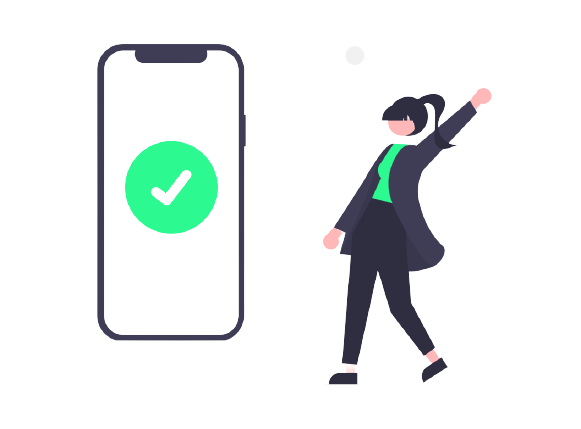
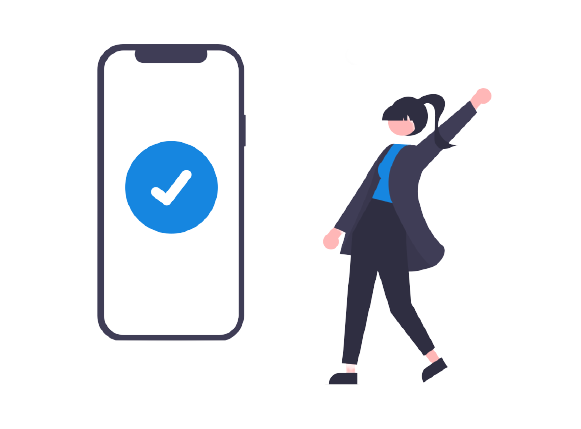
Creating and adding content to the Registration page

Changed region(s): [[0.2169, 0.303, 0.4028, 0.5455], [0.6196, 0.3333, 0.7126, 0.4848]]

diff --git a/lib/register/register_page.dart b/lib/register/register_page.dart
@@ -10,9 +10,155 @@ class RegisterPage extends StatefulWidget {
 class _RegisterPageState extends State<RegisterPage> {
   @override
   Widget build(BuildContext context) {
-    return Container(
-      child: Container(
-        color: Colors.purple,
+    return Scaffold(
+      resizeToAvoidBottomInset: false,
+      backgroundColor: Color(0xfff7f6fb),
+      body: SafeArea(
+        child: Padding(
+          padding: EdgeInsets.symmetric(vertical: 24, horizontal: 30),
+          child: Column(
+            children: [
+              GestureDetector(
+                child: Align(
+                  alignment: Alignment.topLeft,
+                  child: Icon(
+                    Icons.arrow_back,
+                    color: Colors.black54,
+                    size: 32,
+                  ),
+                ),
+                onTap: () {
+                  Navigator.pop(context);
+                },
+              ),
+              SizedBox(
+                height: 80,
+              ),
+              Container(
+                width: 200,
+                height: 200,
+                decoration: BoxDecoration(
+                  // color: Color(0xFF1686E0),
+                  color: Colors.blue.shade50,
+                  shape: BoxShape.circle,
+                ),
+                child: Image.asset(
+                  "assets/images/mobile_register.png",
+                  // height: 450,
+                ),
+              ),
+              SizedBox(
+                height: 30,
+              ),
+              Text(
+                "Registration",
+                style: TextStyle(
+                  fontSize: 22,
+                  fontWeight: FontWeight.bold,
+                ),
+              ),
+              SizedBox(
+                height: 10,
+              ),
+              Text(
+                "Add your phone number. We'll send you a verification code so we know yo're real",
+                style: TextStyle(
+                  fontSize: 14,
+                  fontWeight: FontWeight.bold,
+                  color: Colors.black38,
+                ),
+                textAlign: TextAlign.center,
+              ),
+              SizedBox(
+                height: 50,
+              ),
+              Container(
+                padding: EdgeInsets.all(30),
+                decoration: BoxDecoration(
+                  color: Colors.white,
+                  borderRadius: BorderRadius.circular(12),
+                ),
+                child: Column(
+                  children: [
+                    TextFormField(
+                      keyboardType: TextInputType.number,
+                      style: TextStyle(
+                        fontSize: 18,
+                        fontWeight: FontWeight.bold,
+                      ),
+                      decoration: InputDecoration(
+                        enabledBorder: OutlineInputBorder(
+                          borderSide: BorderSide(
+                            color: Colors.black12,
+                          ),
+                          borderRadius: BorderRadius.circular(10),
+                        ),
+                        focusedBorder: OutlineInputBorder(
+                          borderSide: BorderSide(
+                            color: Colors.black12,
+                          ),
+                          borderRadius: BorderRadius.circular(10),
+                        ),
+                        prefix: Padding(
+                          padding: EdgeInsets.symmetric(horizontal: 8),
+                          child: Text(
+                            "(+55)",
+                            style: TextStyle(
+                              fontSize: 18,
+                              fontWeight: FontWeight.bold,
+                            ),
+                          ),
+                        ),
+                        suffixIcon: Icon(
+                          Icons.check_circle,
+                          color: Colors.green,
+                          size: 28,
+                        ),
+                      ),
+                    ),
+                    SizedBox(
+                      height: 20,
+                    ),
+                    SizedBox(
+                      width: double.infinity,
+                      child: ElevatedButton(
+                        onPressed: () {
+                          Navigator.of(context).push(
+                            MaterialPageRoute(
+                              builder: (context) => RegisterPage(),
+                            ),
+                          );
+                        },
+                        style: ButtonStyle(
+                          foregroundColor:
+                              MaterialStateProperty.all<Color>(Colors.white),
+                          backgroundColor: MaterialStateProperty.all<Color>(
+                              Color(0xFF1686E0)),
+                          shape:
+                              MaterialStateProperty.all<RoundedRectangleBorder>(
+                            RoundedRectangleBorder(
+                              borderRadius: BorderRadius.circular(24),
+                            ),
+                          ),
+                        ),
+                        child: Padding(
+                          padding: EdgeInsets.all(14),
+                          child: Text(
+                            "Send",
+                            style: TextStyle(
+                              fontSize: 18,
+                              fontWeight: FontWeight.bold,
+                            ),
+                          ),
+                        ),
+                      ),
+                    ),
+                  ],
+                ),
+              ),
+            ],
+          ),
+        ),
       ),
     );
   }

diff --git a/lib/welcome/welcome_page.dart b/lib/welcome/welcome_page.dart
@@ -1,4 +1,6 @@
 import 'package:flutter/material.dart';
+import 'package:flutter_verification_app/register/register_page.dart';
+import 'package:flutter_verification_app/verfication/verification_page.dart';
 
 class WelcomPage extends StatefulWidget {
   WelcomPage({Key? key}) : super(key: key);
@@ -52,12 +54,18 @@ class _WelcomPageState extends State<WelcomPage> {
               SizedBox(
                 width: double.infinity,
                 child: ElevatedButton(
-                  onPressed: () {},
+                  onPressed: () {
+                    Navigator.of(context).push(
+                      MaterialPageRoute(
+                        builder: (context) => RegisterPage(),
+                      ),
+                    );
+                  },
                   style: ButtonStyle(
                     foregroundColor:
                         MaterialStateProperty.all<Color>(Colors.white),
                     backgroundColor:
-                        MaterialStateProperty.all<Color>(Color(0xFF0FCC6D)),
+                        MaterialStateProperty.all<Color>(Color(0xFF1686E0)),
                     shape: MaterialStateProperty.all<RoundedRectangleBorder>(
                       RoundedRectangleBorder(
                         borderRadius: BorderRadius.circular(24),
@@ -82,10 +90,16 @@ class _WelcomPageState extends State<WelcomPage> {
               SizedBox(
                 width: double.infinity,
                 child: ElevatedButton(
-                  onPressed: () {},
+                  onPressed: () {
+                    Navigator.of(context).push(
+                      MaterialPageRoute(
+                        builder: (context) => VerificationPage(),
+                      ),
+                    );
+                  },
                   style: ButtonStyle(
                     foregroundColor:
-                        MaterialStateProperty.all<Color>(Color(0xFF0FCC6D)),
+                        MaterialStateProperty.all<Color>(Color(0xFF1686E0)),
                     backgroundColor:
                         MaterialStateProperty.all<Color>(Colors.black),
                     shape: MaterialStateProperty.all<RoundedRectangleBorder>(

diff --git a/lib/splash/splash_page.dart b/lib/splash/splash_page.dart
@@ -47,14 +47,14 @@ class _SplashPageState extends State<SplashPage> {
                   style: GoogleFonts.architectsDaughter(
                     fontSize: 27,
                     fontWeight: FontWeight.bold,
-                    color: Color(0xFF17A7A7),
+                    color: Color(0xFF1686E0),
                   ),
                 ),
               ),
               Center(
                 child: Container(
                   child: Lottie.asset(
-                    "assets/animations/verification.json",
+                    "assets/animations/mobile_verification.json",
                   ),
                 ),
               ),
@@ -64,7 +64,8 @@ class _SplashPageState extends State<SplashPage> {
                   "Tap to screen",
                   style: GoogleFonts.architectsDaughter(
                     fontSize: 20,
-                    color: Color(0xFF17A7A7),
+                    fontWeight: FontWeight.bold,
+                    color: Color(0xFF1686E0),
                   ),
                 ),
               ),

diff --git a/lib/verfication/verification_page.dart b/lib/verfication/verification_page.dart
@@ -1,13 +1,13 @@
 import 'package:flutter/material.dart';
 
-class VerficationPage extends StatefulWidget {
-  const VerficationPage({Key? key}) : super(key: key);
+class VerificationPage extends StatefulWidget {
+  const VerificationPage({Key? key}) : super(key: key);
 
   @override
-  _VerficationPageState createState() => _VerficationPageState();
+  _VerificationPageState createState() => _VerificationPageState();
 }
 
-class _VerficationPageState extends State<VerficationPage> {
+class _VerificationPageState extends State<VerificationPage> {
   @override
   Widget build(BuildContext context) {
     return Container(

diff --git a/lib/core/app_widget.dart b/lib/core/app_widget.dart
@@ -1,6 +1,5 @@
 import 'package:flutter/material.dart';
-// import 'package:flutter_verification_app/splash/splash_page.dart';
-import 'package:flutter_verification_app/welcome/welcome_page.dart';
+import 'package:flutter_verification_app/splash/splash_page.dart';
 
 class AppWidget extends StatelessWidget {
   @override
@@ -8,7 +7,7 @@ class AppWidget extends StatelessWidget {
     return MaterialApp(
       debugShowCheckedModeBanner: false,
       title: "Flutter verification",
-      home: WelcomPage(),
+      home: SplashPage(),
     );
   }
 }
